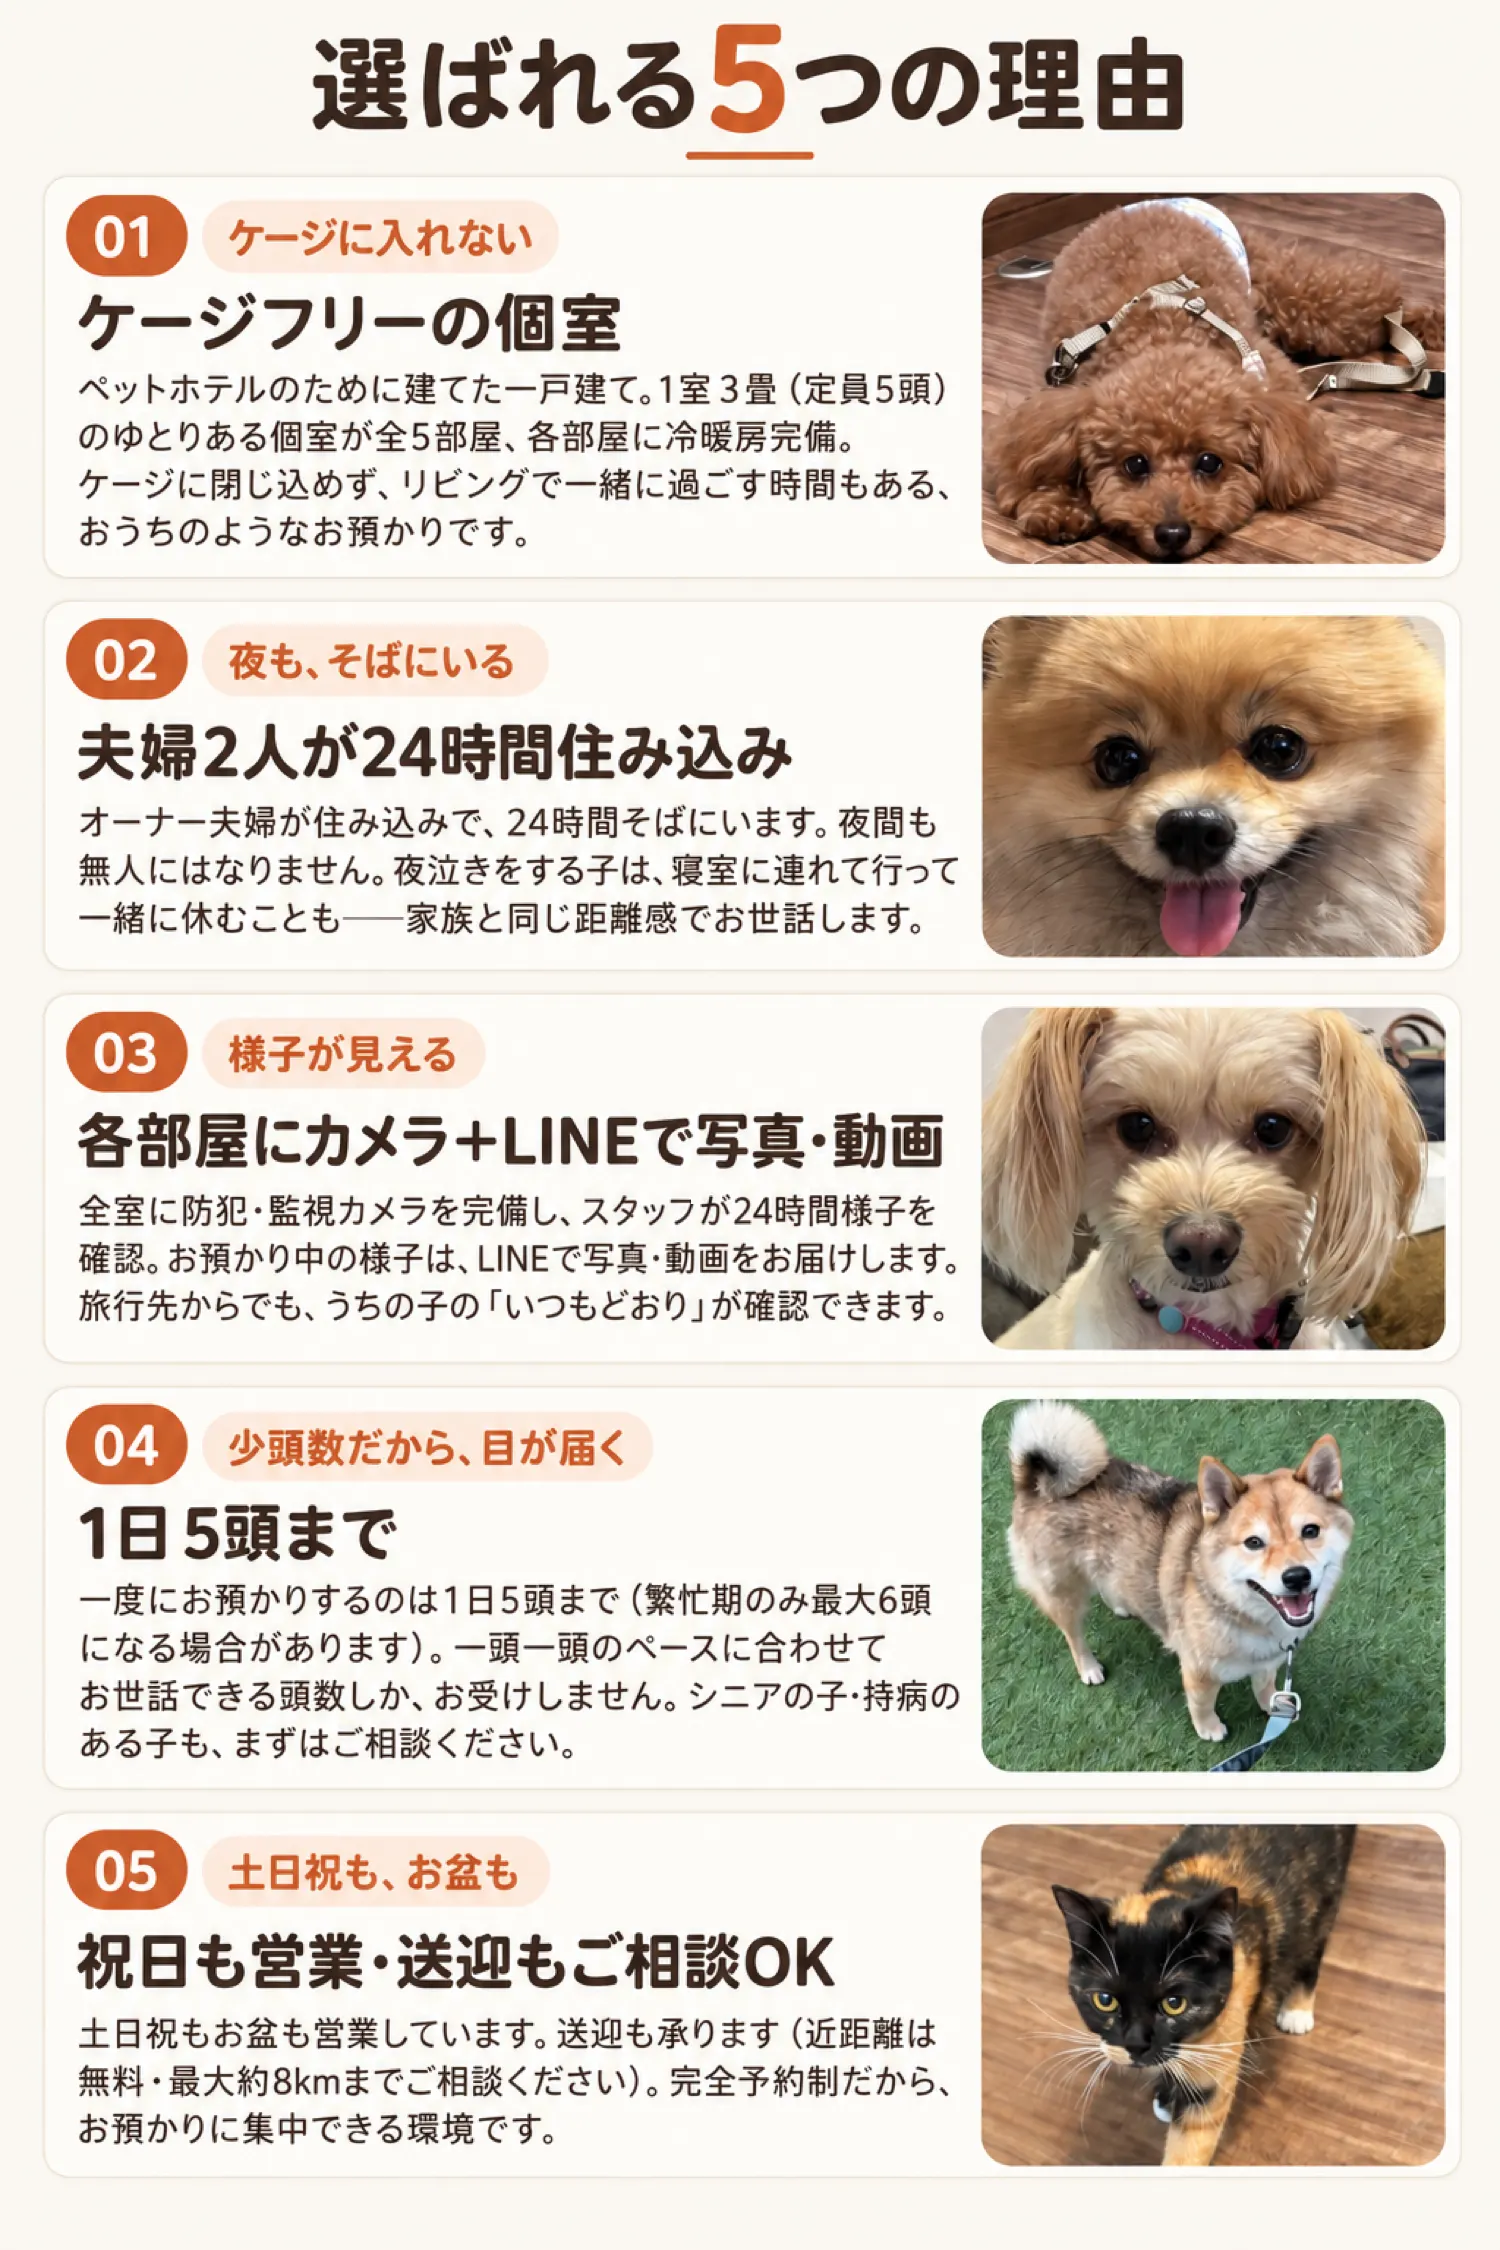
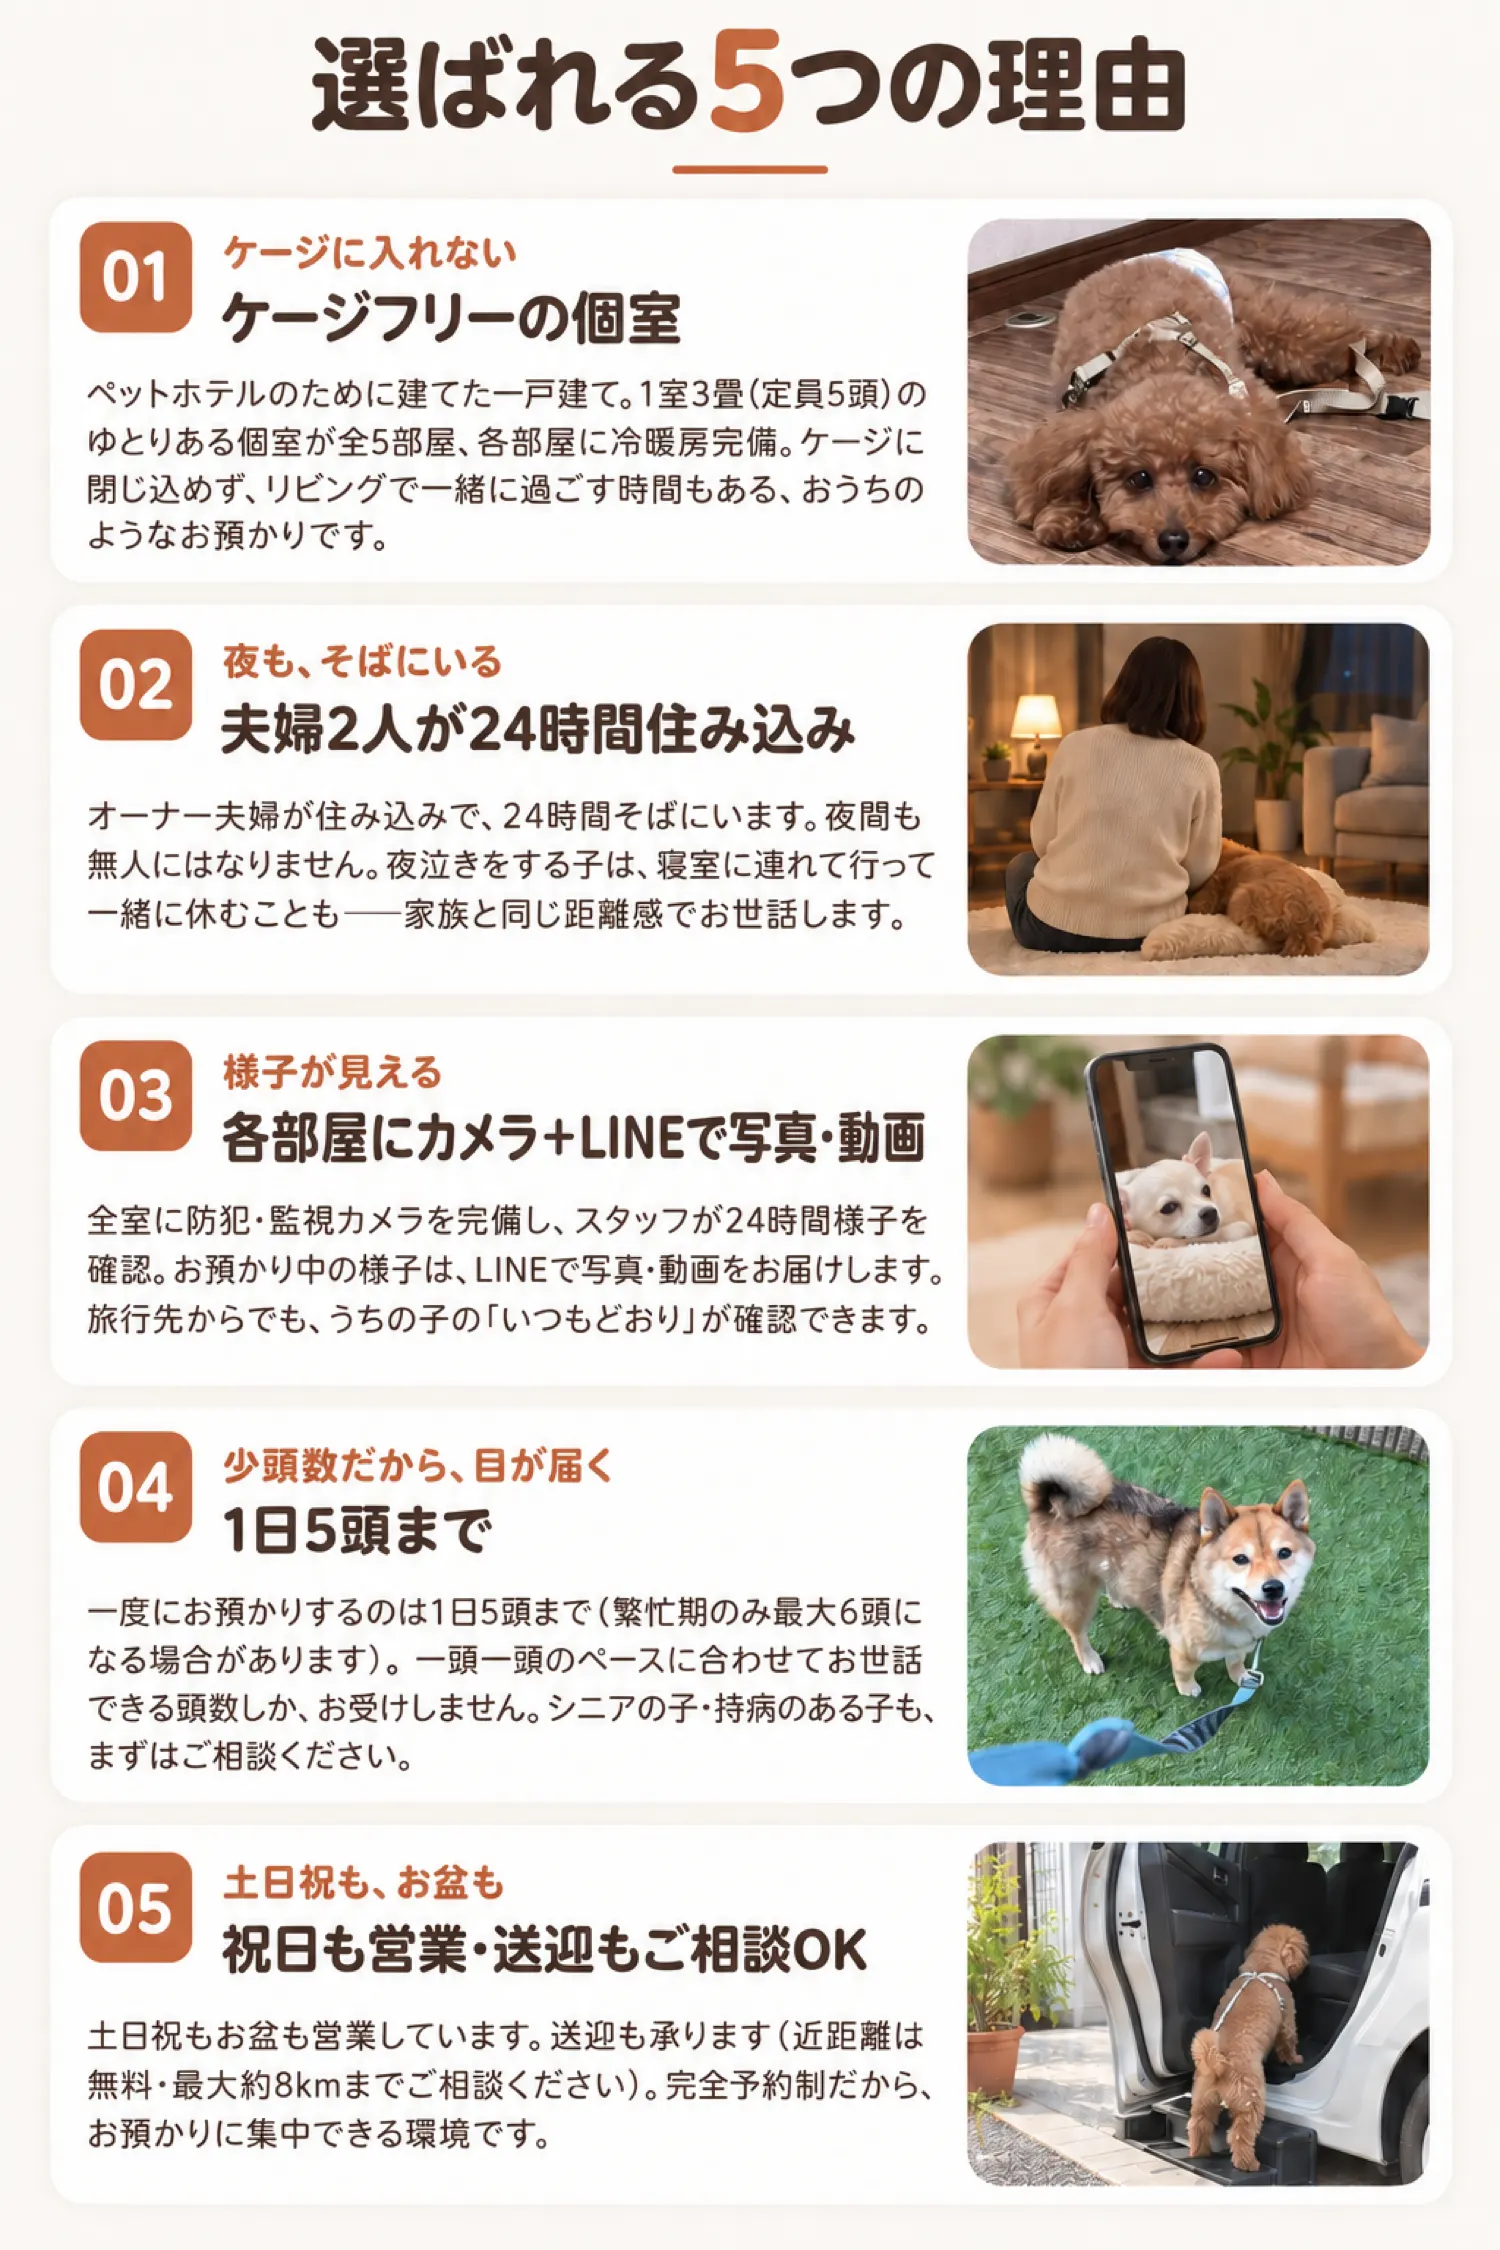
update

diff --git a/index.html b/index.html
@@ -97,7 +97,7 @@
 
       <!-- ▼⑥ 選ばれる5つの理由 -->
       <section class="slice">
-        <img src="img/06-reasons.webp?v=1" width="1500" height="2250" loading="lazy"
+        <img src="img/06-reasons.webp?v=2" width="1500" height="2250" loading="lazy"
              alt="選ばれる5つの理由。01 ケージフリーの個室：ペットホテルのために建てた一戸建て。1室3畳（定員5頭）の個室が全5部屋、各部屋に冷暖房完備。02 夫婦2人が24時間住み込み：夜間も無人にはなりません。夜泣きをする子は寝室に連れて行って一緒に休むことも。03 各部屋にカメラ＋LINEで写真・動画：全室に防犯・監視カメラを完備し、お預かり中の様子をLINEでお届け。04 1日5頭まで：繁忙期のみ最大6頭。一頭一頭のペースに合わせてお世話できる頭数しかお受けしません。05 祝日も営業・送迎もご相談OK：土日祝もお盆も営業。送迎は近距離無料・最大約8kmまで">
       </section>
 
